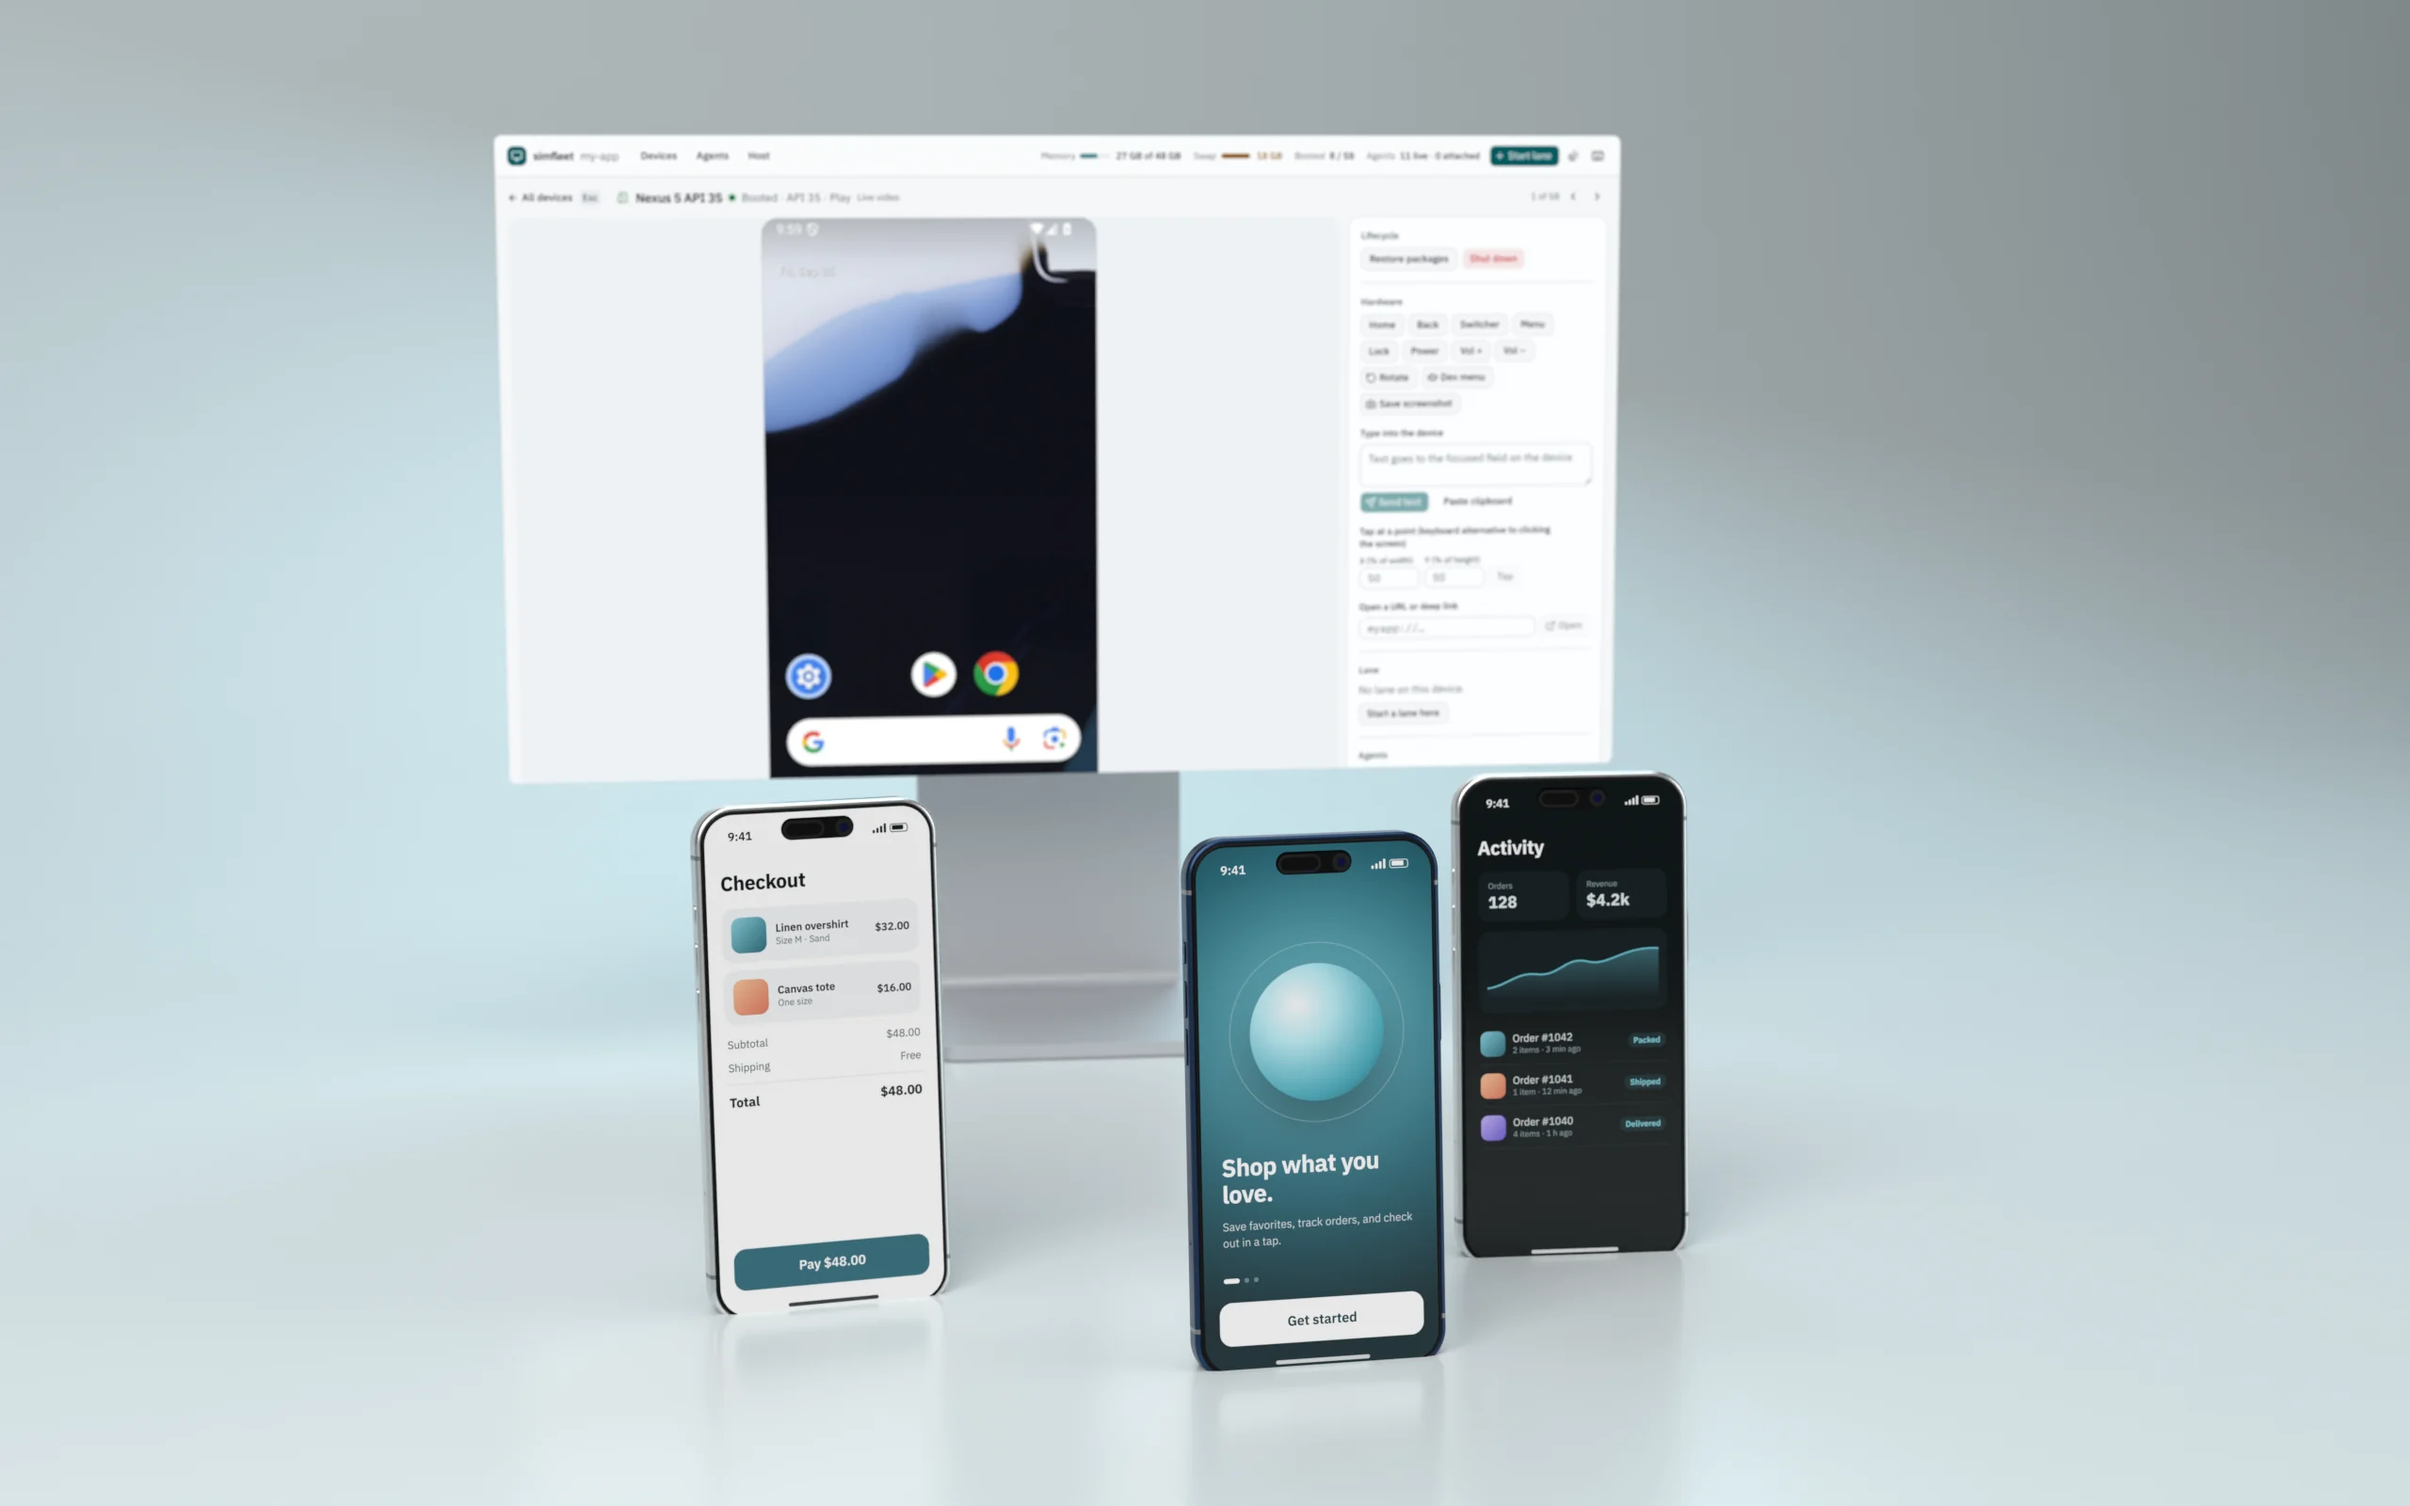
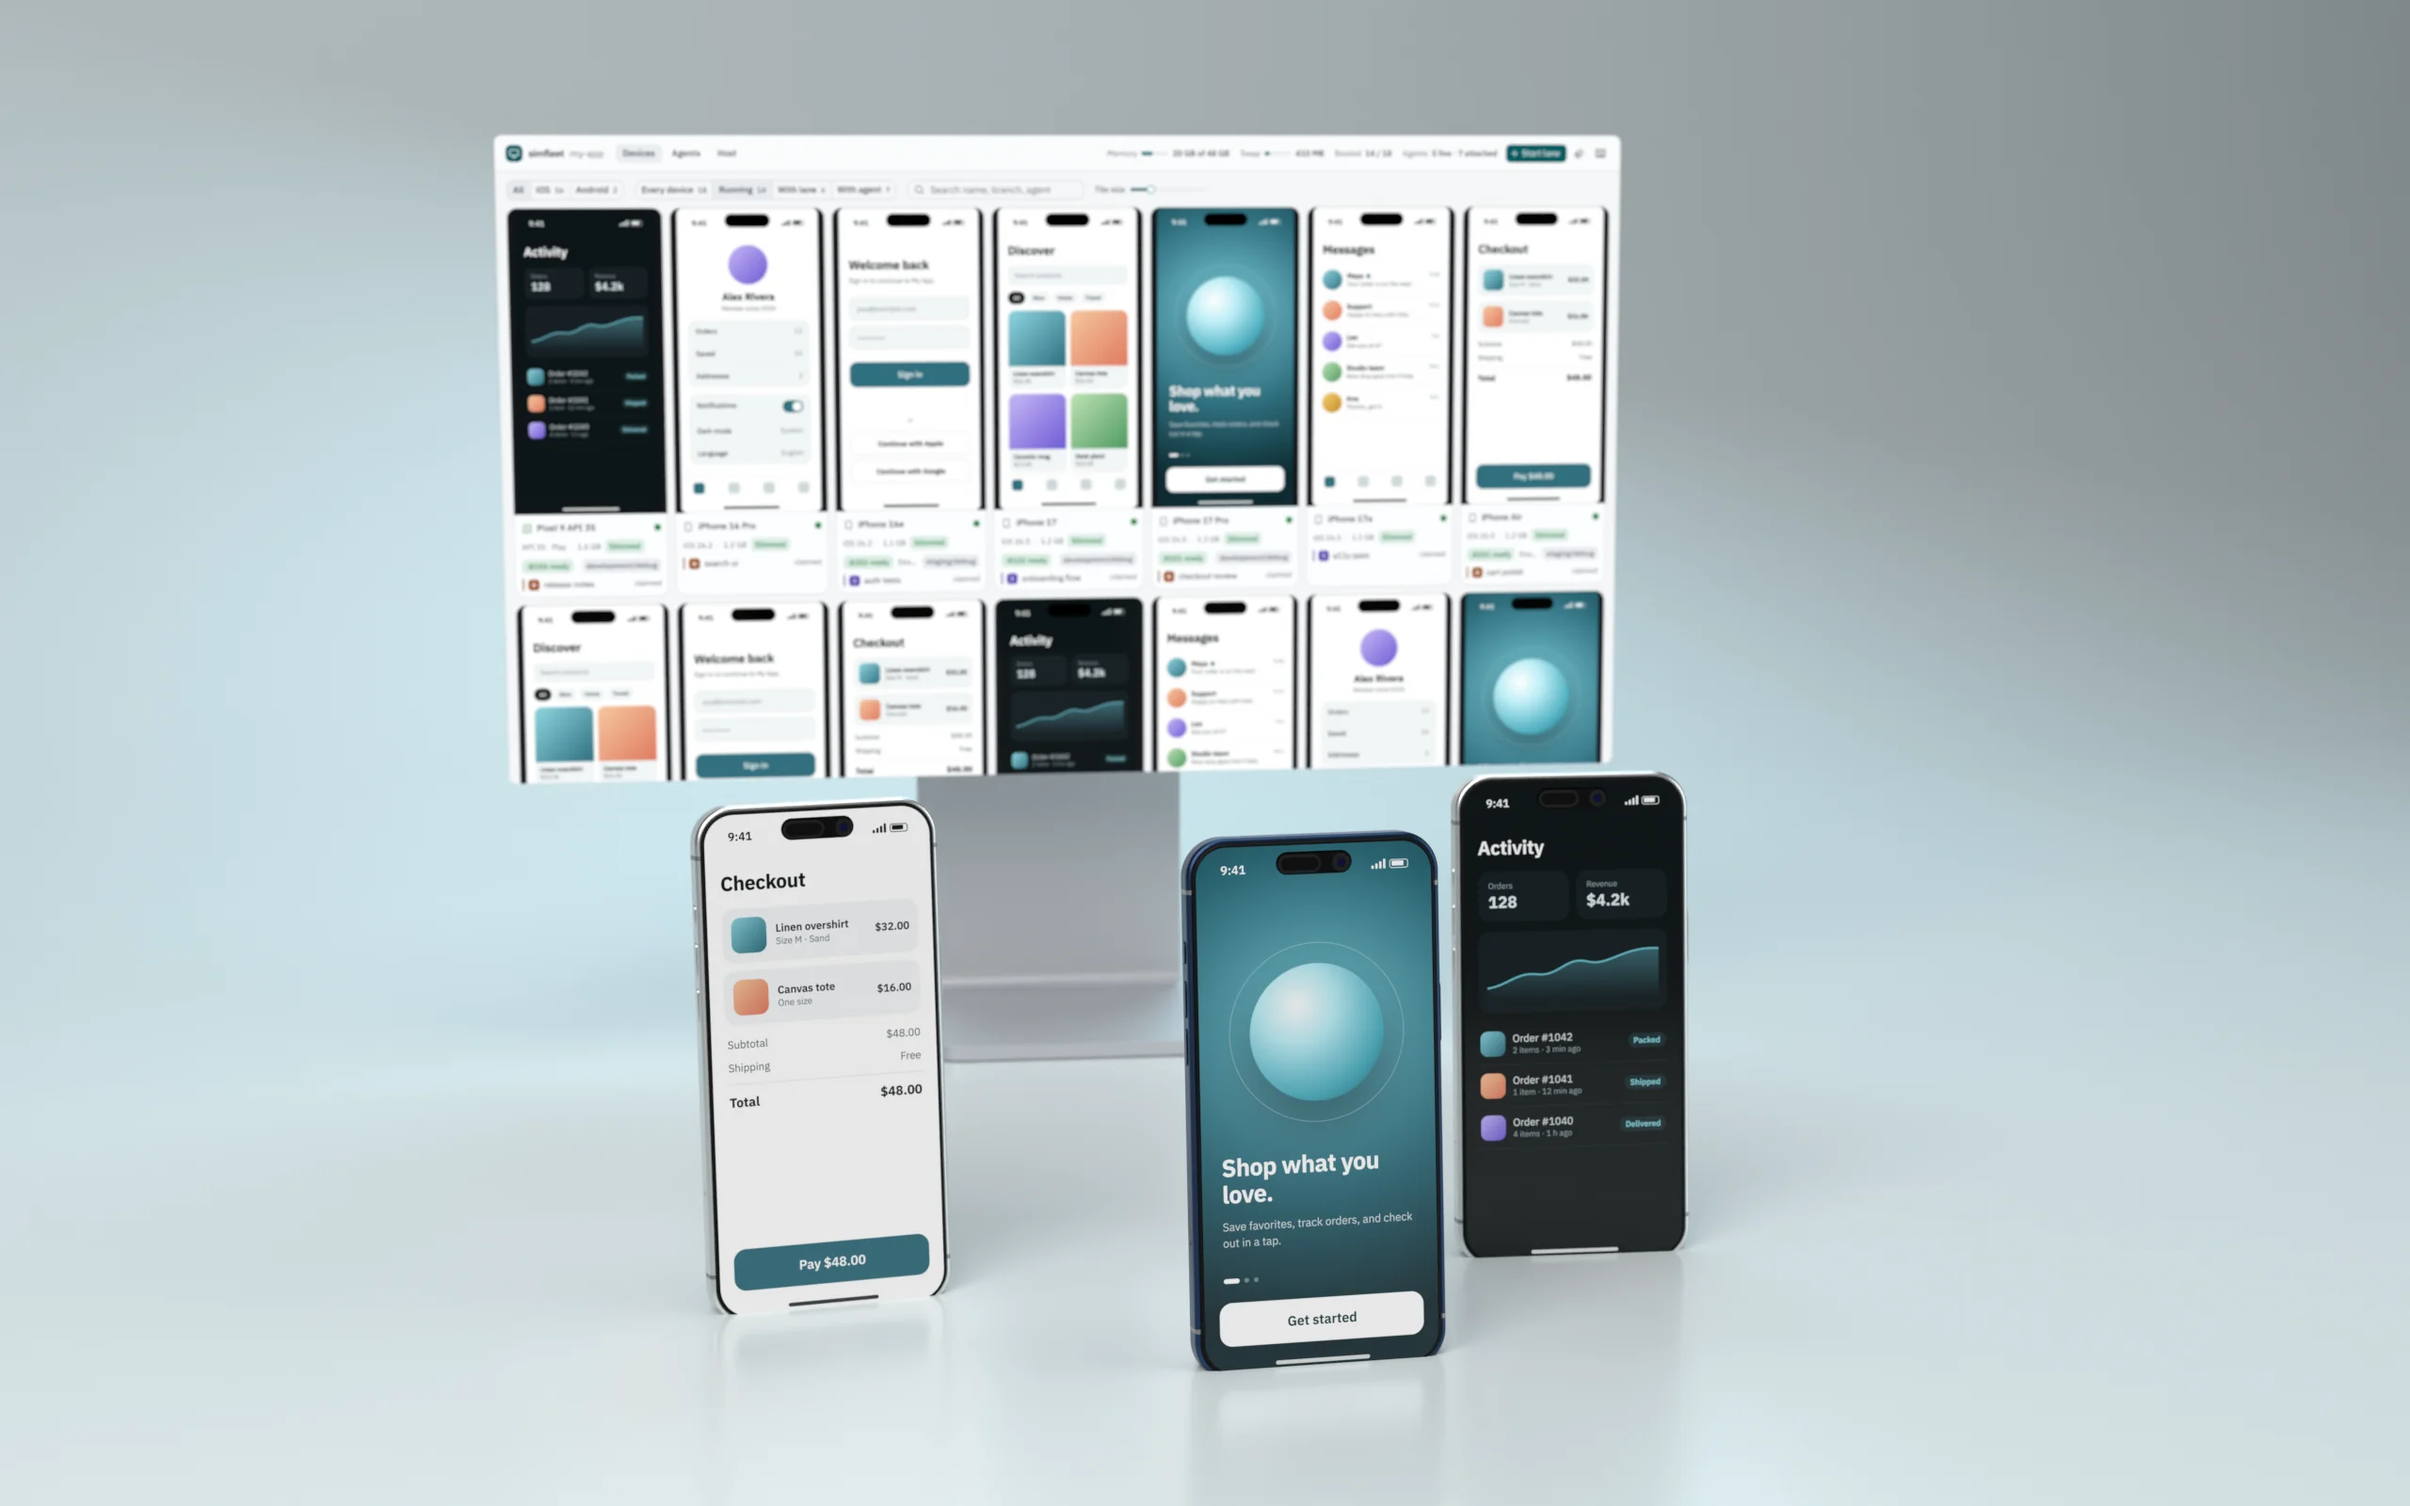
docs: hero display shows the multi-simulator dashboard; add dashboard-grid screenshots

Changed region(s): [[0.1875, 0.0938, 0.6875, 0.5312]]

diff --git a/docs/app/page.tsx b/docs/app/page.tsx
@@ -85,7 +85,7 @@ export default function Home() {
           <div className="overflow-hidden rounded-2xl border border-border/60">
             <Image
               src={withBasePath('/images/hero.webp')}
-              alt="Three iPhones running a demo app in front of a display showing the simfleet dashboard streaming a live Android emulator"
+              alt="Three iPhones running a demo app in front of a display showing the simfleet dashboard with fourteen slimmed simulators running at once"
               width={2560}
               height={1600}
               priority
@@ -93,7 +93,7 @@ export default function Home() {
             />
             <Image
               src={withBasePath('/images/hero-dark.webp')}
-              alt="Three iPhones running a demo app in front of a display showing the simfleet dashboard streaming a live Android emulator"
+              alt="Three iPhones running a demo app in front of a display showing the simfleet dashboard with fourteen slimmed simulators running at once"
               width={2560}
               height={1600}
               className="w-full h-auto hidden dark:block"

diff --git a/README.md b/README.md
@@ -19,7 +19,7 @@
   <a href="https://entropyconquers.github.io/simfleet/docs/api-reference/">API reference</a>
 </p>
 
-<p align="center"><img src="docs/public/images/hero.webp" alt="Three iPhones running a demo app in front of a display showing the simfleet dashboard streaming a live Android emulator" width="900"></p>
+<p align="center"><img src="docs/public/images/hero.webp" alt="Three iPhones running a demo app in front of a display showing the simfleet dashboard with fourteen slimmed simulators running at once" width="900"></p>
 
 ---
 
